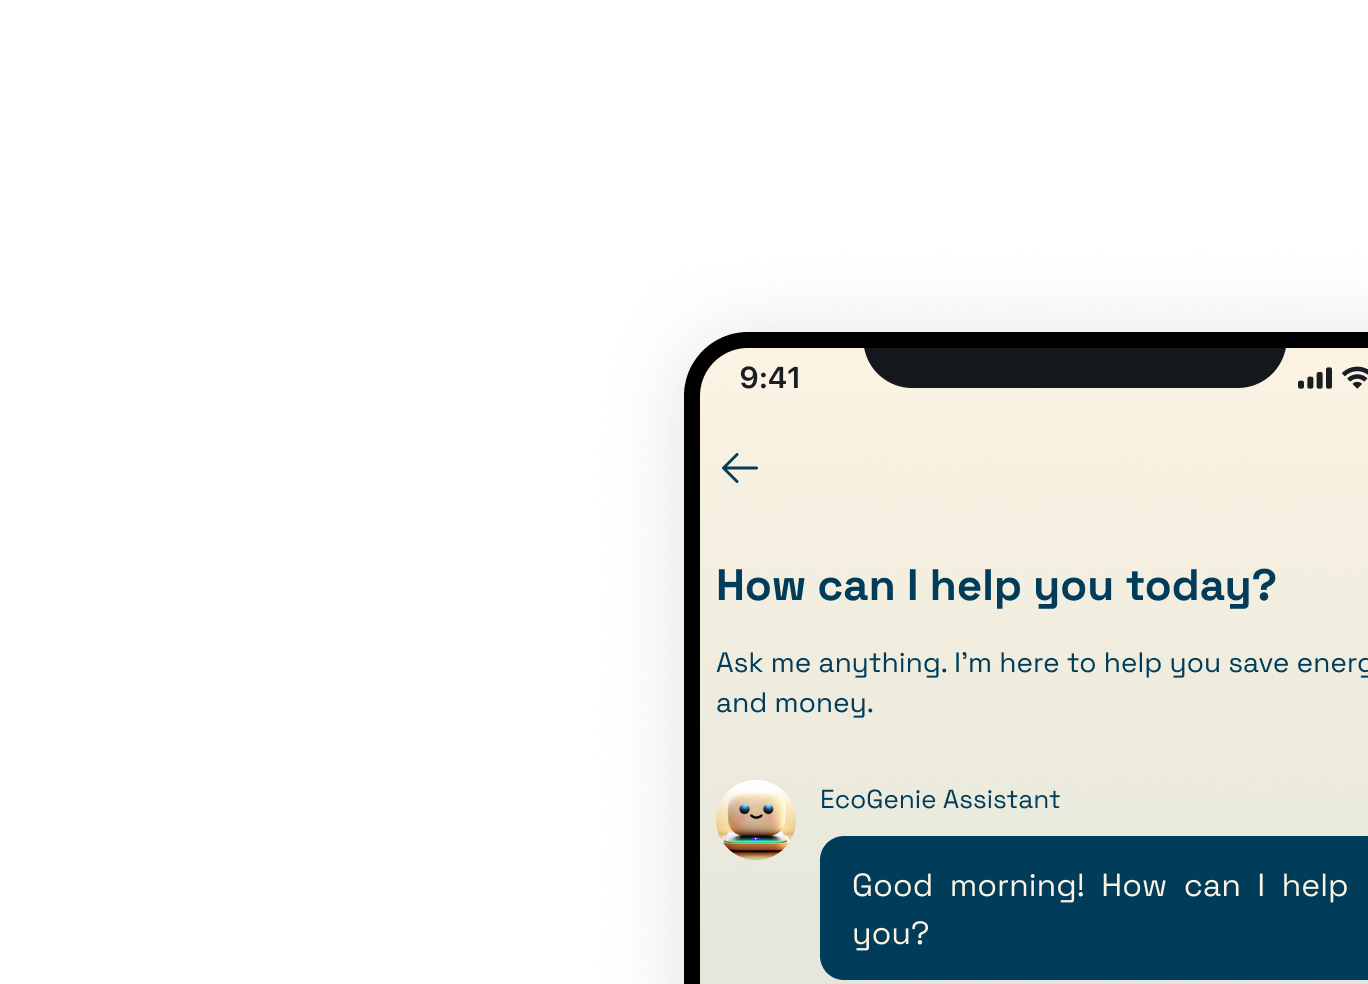
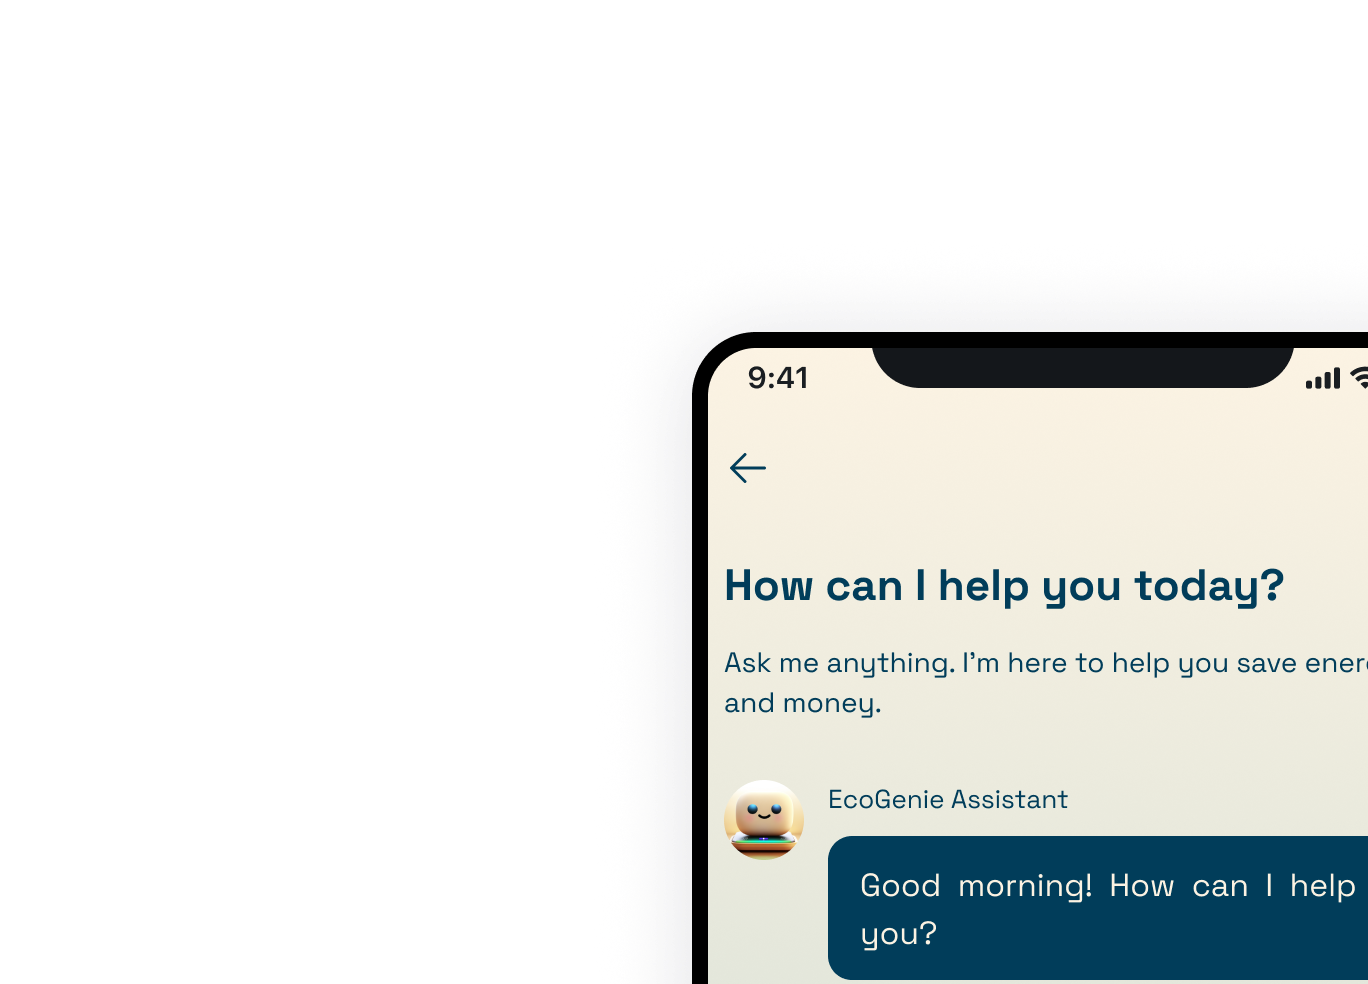
add From Maps to Memories case study

Changed region(s): [[0.4912, 0.3354, 1.0, 1.0], [0.9211, 0.3659, 1.0, 0.3963], [0.6447, 0.3659, 0.6754, 0.3963]]

diff --git a/app/projects/from-maps-to-memories/page.tsx b/app/projects/from-maps-to-memories/page.tsx
@@ -1,16 +1,120 @@
 import type { Metadata } from 'next';
-import ComingSoon from '@/components/ComingSoon';
+import Link from 'next/link';
+import FadeIn from '@/components/FadeIn';
+import Tag from '@/components/Tag';
+import PrevNext from '@/components/PrevNext';
+import { getAdjacent } from '@/lib/projects';
 
 export const metadata: Metadata = {
   title: 'From Maps to Memories — Luisina Dorsi',
-  description: 'Where cartography meets personal narrative.',
+  description: 'A personal migration story told through cartography, storytelling, and design.',
 };
 
+const TERRA = '#d4643a';
+
+const TAGS = ['STORYTELLING', 'ARCGIS', 'DATA VISUALIZATION'];
+
 export default function FromMapsToMemoriesPage() {
+  const { prev, next } = getAdjacent('from-maps-to-memories');
+
   return (
-    <ComingSoon
-      projectTitle="From Maps to Memories"
-      behanceUrl="https://www.behance.net/gallery/232140353/From-maps-to-memories-A-journey-across-borders"
-    />
+    <>
+      {/* ── Hero ──────────────────────────────────────────────── */}
+      <header className="pt-32 pb-0 bg-[var(--color-bg)]">
+        <div className="container max-w-6xl">
+          {/* Back link */}
+          <Link
+            href="/#work"
+            className="inline-flex items-center gap-2 text-xs uppercase tracking-widest text-[var(--color-text)]/50 hover:text-[var(--color-heading)] transition-colors mb-12"
+          >
+            ← All projects
+          </Link>
+
+          {/* Tags */}
+          <div className="flex flex-wrap gap-2 mb-8">
+            {TAGS.map((tag) => (
+              <Tag key={tag} variant="outline">{tag}</Tag>
+            ))}
+          </div>
+
+          {/* Title */}
+          <h1
+            className="text-[clamp(4rem,10vw,8rem)] leading-[0.95] text-[var(--color-heading)] mb-6"
+            style={{
+              fontFamily: 'var(--font-display)',
+              letterSpacing: '-0.02em',
+              animation: 'heroFadeIn 0.8s 0.05s var(--ease-organic) both',
+            }}
+          >
+            From Maps to Memories
+          </h1>
+
+          {/* Tagline */}
+          <p
+            className="text-xl md:text-2xl text-[var(--color-text)]/60 max-w-md leading-relaxed mb-12"
+            style={{
+              fontFamily: 'var(--font-display)',
+              fontStyle: 'italic',
+              animation: 'heroFadeIn 0.8s 0.18s var(--ease-organic) both',
+            }}
+          >
+            A personal migration story told through cartography, storytelling, and design
+          </p>
+
+          {/* Meta strip — 4-col bordered */}
+          <dl
+            className="grid grid-cols-2 md:grid-cols-4 gap-8 pb-14 border-b border-[var(--color-text)]/8"
+            style={{ animation: 'heroFadeIn 0.8s 0.26s var(--ease-organic) both' }}
+          >
+            {[
+              { label: 'Role',     value: 'UX Designer & Storyteller'  },
+              { label: 'Timeline', value: '—'                           },
+              { label: 'Tools',    value: 'ArcGIS • MidJourney'        },
+              { label: 'Team',     value: 'Solo project'               },
+            ].map(({ label, value }) => (
+              <div key={label} className="pl-4" style={{ borderLeft: `2px solid ${TERRA}` }}>
+                <dt
+                  className="mb-2"
+                  style={{
+                    fontFamily: 'var(--font-sans)',
+                    fontSize: 10,
+                    letterSpacing: '0.18em',
+                    textTransform: 'uppercase',
+                    color: TERRA,
+                  }}
+                >
+                  {label}
+                </dt>
+                <dd
+                  style={{
+                    fontFamily: 'var(--font-sans)',
+                    fontSize: 18,
+                    color: 'oklab(0.265625 0.00656099 0.00965214 / 0.7)',
+                    lineHeight: 1.4,
+                  }}
+                >
+                  {value}
+                </dd>
+              </div>
+            ))}
+          </dl>
+        </div>
+      </header>
+
+      {/* ── StoryMap Embed ────────────────────────────────────── */}
+      <FadeIn>
+        <iframe
+          src="https://storymaps.arcgis.com/stories/05ee6bc4ebb94d85863780b8ede0e839"
+          width="100%"
+          height="100vh"
+          allowFullScreen
+          sandbox="allow-same-origin allow-scripts allow-pointer-lock allow-forms allow-popups allow-popups-to-escape-sandbox"
+          style={{ display: 'block', minHeight: '100vh', border: 'none' }}
+        />
+      </FadeIn>
+
+      {/* ── Prev / Next ───────────────────────────────────────── */}
+      <PrevNext prev={prev} next={next} />
+    </>
   );
 }

diff --git a/app/projects/moodmaps/page.tsx b/app/projects/moodmaps/page.tsx
@@ -167,8 +167,8 @@ export default function MoodMapsPage() {
           >
             {[
               { label: 'Role',     value: 'UX Researcher & Designer' },
-              { label: 'Timeline', value: '10 weeks'                  },
-              { label: 'Tools',    value: 'Figma, ArcGIS, Miro'       },
+              { label: 'Timeline', value: '2 weeks'                    },
+              { label: 'Tools',    value: 'Figma Make • ArcGIS • Miro' },
               { label: 'Team',     value: 'Solo project'              },
             ].map(({ label, value }) => (
               <div key={label} className="pl-4" style={{ borderLeft: `2px solid ${TERRA}` }}>

diff --git a/app/page.tsx b/app/page.tsx
@@ -85,7 +85,7 @@ export default function HomePage() {
           </FadeIn>
 
           {/* Bento project grid — editorial, clip-path reveal on hover */}
-          <div className="grid grid-cols-1 md:grid-cols-3 gap-4" style={{ gridAutoRows: 'minmax(280px, auto)' }}>
+          <div className="grid grid-cols-1 md:grid-cols-3 gap-4" style={{ gridAutoRows: 'minmax(320px, auto)' }}>
 
             {/* MoodMaps — featured editorial (2 cols × 1 row) */}
             <FadeIn className="md:col-span-2" delay={0}>